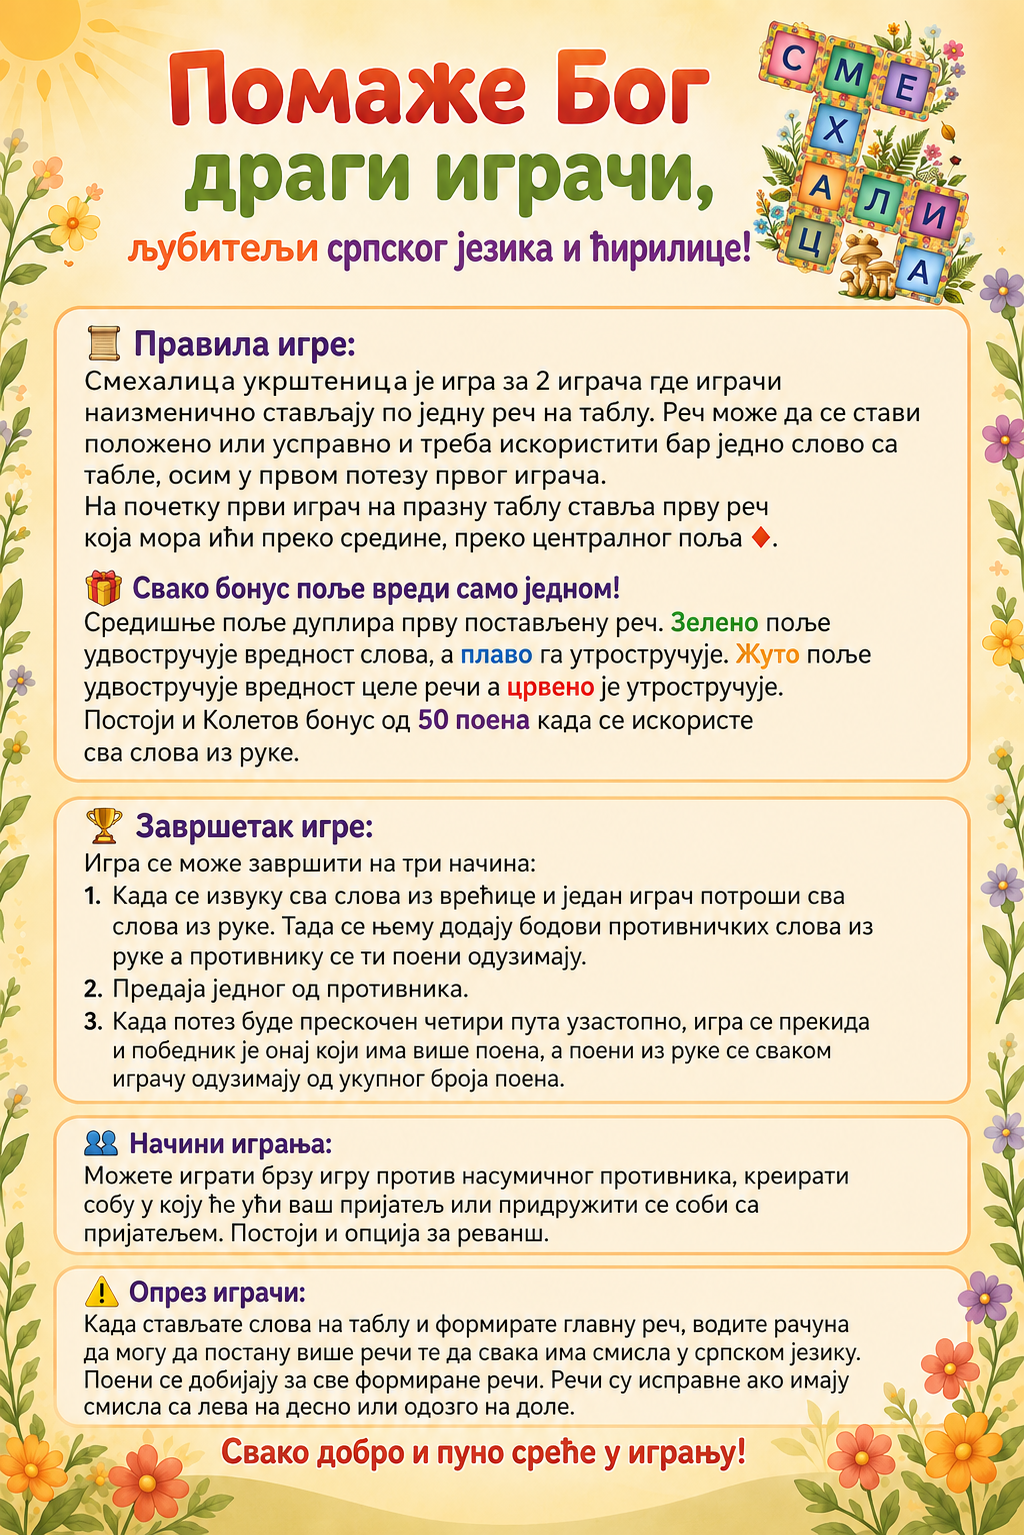
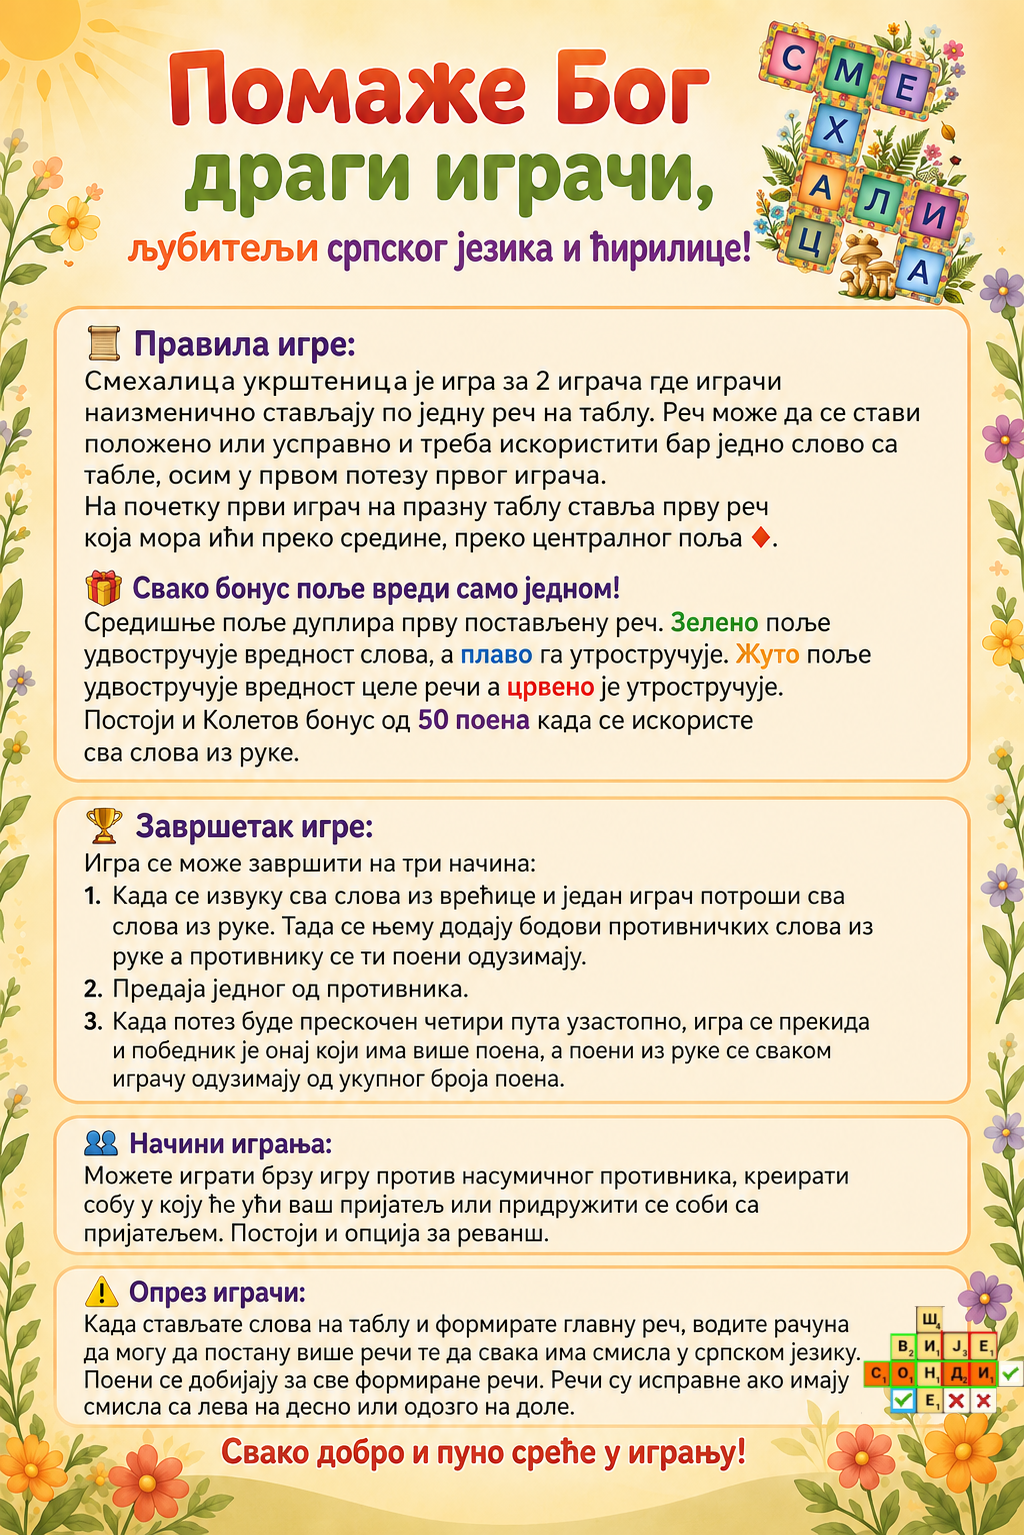
fiksevi sobe jos nesto oko surrender

Changed region(s): [[0.8438, 0.8267, 1.0, 0.9186]]

diff --git a/public/style.css b/public/style.css
@@ -56,18 +56,28 @@ html {
 }
 
 body {
-  font-family: 'Segoe UI', Tahoma, Geneva, Verdana, sans-serif;
-  background: linear-gradient(135deg, #4A90E2 0%, #56CCF2 30%, #F9D423 70%, #FF8C42 100%);
-  min-height: 100vh;
-  display: flex;
-  flex-direction: column;
-  align-items: center;
-  justify-content: center;
-  padding: 8px;
-  color: white;
-  user-select: none;
-  -webkit-user-select: none;
-  -webkit-tap-highlight-color: transparent;
+    font-family: 'Segoe UI', Tahoma, Geneva, Verdana, sans-serif;
+
+    background-color: #173f5f;
+    background-image: url('menu-background.png');
+    background-size: contain;
+    background-position: center;
+    background-repeat: no-repeat;
+    background-attachment: fixed;
+
+    min-height: 100vh;
+
+    display: flex;
+    flex-direction: column;
+    align-items: center;
+    justify-content: center;
+
+    padding: 8px;
+    color: white;
+
+    user-select: none;
+    -webkit-user-select: none;
+    -webkit-tap-highlight-color: transparent;
 }
 
 h1 {
@@ -717,9 +727,10 @@ button:disabled {
 
 #nameOverlay {
     background-image: url('menu-background.png');
-    background-size: cover;
+    background-size: contain;
     background-position: center;
     background-repeat: no-repeat;
+    background-color: #173f5f;
 }
 
 /* Panel preko slike */
@@ -925,12 +936,13 @@ button:disabled {
 }
 
 @media (min-width: 768px) {
-  body {
-    max-width: 500px;
-    margin: 0 auto;
-    border-left: 1px solid rgba(255,255,255,0.2);
-    border-right: 1px solid rgba(255,255,255,0.2);
-  }
+    body {
+        max-width: none;
+        width: 100%;
+        margin: 0;
+        border-left: none;
+        border-right: none;
+    }
 }
 /* =========================================================
    PODMENI - USKLAĐENI SA OPTIONS MENIJEM
@@ -1373,6 +1385,154 @@ button:disabled {
     }
 
     #findingScreen #cancelFindBtn {
+        min-height: 54px;
+        font-size: 0.95rem;
+    }
+}
+/* =========================================================
+   REVANŠ PONUDA - USKLAĐENA SA OPTIONS MENIJEM
+   ========================================================= */
+
+#rematchOverlay {
+    background-image: url('menu-background.png');
+    background-size: contain;
+    background-position: center;
+    background-repeat: no-repeat;
+    background-color: #173f5f;
+
+    align-items: flex-end;
+    justify-content: center;
+}
+
+/* Panel */
+#rematchOverlay .overlay-content {
+    width: min(88%, 430px);
+    max-width: 430px;
+
+    padding: 24px;
+
+    margin-bottom: 20px;
+
+    border-radius: 24px;
+
+    background: rgba(8, 61, 108, 0.90);
+
+    border: 2px solid rgba(255, 255, 255, 0.20);
+
+    box-shadow:
+        0 12px 35px rgba(0, 0, 0, 0.45),
+        inset 0 1px 0 rgba(255, 255, 255, 0.15);
+
+    text-align: center;
+}
+
+/* Naslov */
+#rematchOverlay h2 {
+    color: #fff;
+
+    font-size: 1.35rem;
+    font-weight: 800;
+
+    margin: 0 0 18px 0;
+
+    text-shadow:
+        1px 2px 3px rgba(0, 0, 0, 0.45);
+}
+
+/* Poruka */
+#rematchOverlay p {
+    color: #fff;
+
+    font-size: 1rem;
+    font-weight: 600;
+
+    margin: 0 0 18px 0;
+
+    text-align: center;
+}
+
+/* Sva dugmad */
+#rematchOverlay button {
+    width: 100% !important;
+
+    min-height: 58px;
+
+    padding: 12px 16px !important;
+
+    margin-bottom: 10px;
+
+    border: none;
+
+    border-radius: 30px;
+
+    color: #fff;
+
+    font-size: 1rem;
+    font-weight: 800;
+
+    letter-spacing: 0.4px;
+
+    box-shadow:
+        0 5px 10px rgba(0, 0, 0, 0.28),
+        inset 0 1px 0 rgba(255, 255, 255, 0.20);
+
+    transition:
+        transform 0.15s ease,
+        filter 0.15s ease,
+        box-shadow 0.15s ease;
+}
+
+/* Prihvati */
+#rematchOverlay #acceptRematchBtn {
+    background: linear-gradient(
+        180deg,
+        #4CAF50 0%,
+        #2E8B32 100%
+    );
+}
+
+/* Odbij */
+#rematchOverlay #declineRematchBtn {
+    background: linear-gradient(
+        180deg,
+        #A23BEF 0%,
+        #6412A0 100%
+    );
+
+    margin-bottom: 0;
+}
+
+#rematchOverlay button:active {
+    transform: scale(0.97);
+}
+
+#rematchOverlay button:hover {
+    filter: brightness(1.08);
+
+    box-shadow:
+        0 7px 14px rgba(0, 0, 0, 0.32),
+        inset 0 1px 0 rgba(255, 255, 255, 0.25);
+}
+
+/* Telefon */
+@media (max-width: 480px) {
+
+    #rematchOverlay .overlay-content {
+        width: 88%;
+
+        padding: 20px;
+
+        margin-bottom: 20px;
+
+        border-radius: 22px;
+    }
+
+    #rematchOverlay h2 {
+        font-size: 1.2rem;
+        margin-bottom: 16px;
+    }
+
+    #rematchOverlay button {
         min-height: 54px;
         font-size: 0.95rem;
     }
